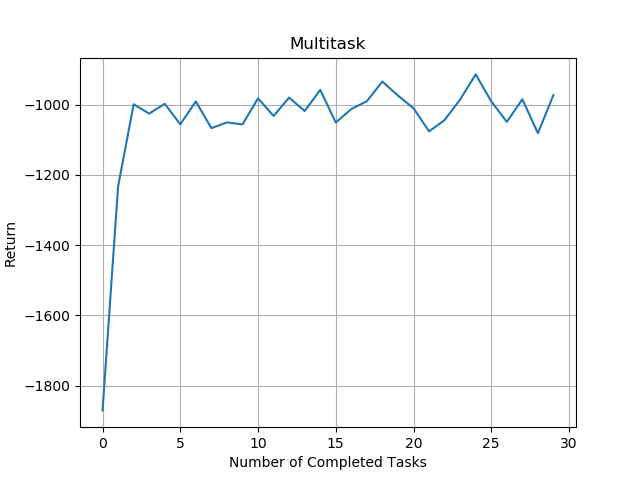
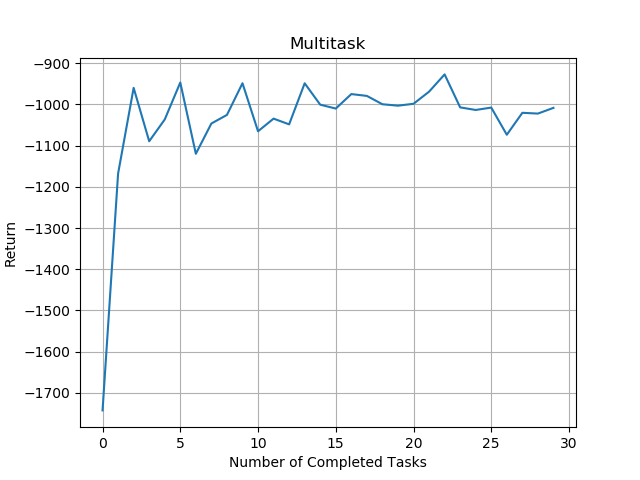
removed taskgenerator

diff --git a/test.py b/test.py
@@ -1,25 +1,27 @@
 import gym
 import gym_foo
 import matplotlib.pyplot as plt
+import numpy as np
 # import ipdb
 
 from approaches.random_policy import RandomPolicyApproach
 from approaches.q_learning import SingleTaskQLearningApproach, MultiTaskQLearningApproach, SingleTaskAugmentedQLearningApproach, MultiTaskAugmentedQLearningApproach
 
-def test_single_approach(task_generator, approach, total_num_tasks=30):
+def test_single_approach(approach, rng, total_num_tasks=30):
     results = []
-    task = task_generator('foo-v0')
-    approach = approach(task.get_actions(), task.get_rewards)
+    task = gym.make('foo-v0')
+    task.reset(rng)
+    approach = approach(task.action_space, task.reward_function, rng)
 
     for task_num in range(total_num_tasks):
-        result = run_approach_on_task(approach, task)
+        result = run_approach_on_task(approach, task, rng)
         results.append(result)
 
     return results
 
-def run_approach_on_task(approach, task, max_num_steps=100):
+def run_approach_on_task(approach, task, rng, max_num_steps=100):
     # Task is a Gym env
-    state = task.reset()
+    state = task.reset(rng)
     # Initialize the approach
     approach.reset()
     # Result is a list of all rewards seen
@@ -33,29 +35,10 @@ def run_approach_on_task(approach, task, max_num_steps=100):
         state = next_state
         if done:
             # break
-            state = task.reset()
+            state = task.reset(rng)
             # reset environment without rerandomizing
             # allows agent to learn for longer
     return result
-
-class TaskGenerator:
-    def __init__(self, env_name):
-        self.env = gym.make(env_name)
-
-    def reset(self):
-        # self.env.randomize_map()
-        self.env.randomize_rewards()
-        state = self.env.reset()
-        return state
-
-    def step(self, action):
-        return self.env.step(action)
-
-    def get_actions(self):
-        return self.env.action_space
-
-    def get_rewards(self):
-        return self.env.reward_function
 
 
 if __name__ == "__main__":
@@ -79,7 +62,9 @@ if __name__ == "__main__":
         num_tasks = 30
         results = [0]*num_tasks
         for i in range(25):
-            current = (test_single_approach(TaskGenerator, approach_fn))
+            rng = np.random.RandomState(i)
+            # rng random num generator
+            current = (test_single_approach(approach_fn, rng))
             for j in range(num_tasks):
                 results[j] += sum(current[j])/25.0
 
@@ -95,25 +80,6 @@ if __name__ == "__main__":
                title=str(approach))
         ax.grid()
 
-        # fig.savefig(file)
-        plt.show()
-
-# plot returns
-    # include random actions as baseline
-        # shouldn't have a trend - noisy
-        # single task should be better than this
-    # plot episode vs total return for the episode
-        # want to see that later episodes have higher returns
-        # test that multitask is better than single when not randomizing
-        # if multitask isnt improving, might be due to length/num of episodes 
-        # or distribution of rewards (make range smaller)
-    # save results using pickle
-        # script that loads results and makes plots
-
-# hacking reward function
-    # ask reward fn rewards at empty space vs pellet, include in augmented state ([row, col, reward at pellet, reward at empty space])
-        # dont randomize map
-    
-# try new approach with right hard coded policy
-# unit tests
+        fig.savefig(file)
+        # plt.show()
 

diff --git a/approaches/q_learning.py b/approaches/q_learning.py
@@ -1,26 +1,29 @@
 from .approach import Approach
 from collections import defaultdict
 import numpy as np
-from random import randint
 
 class SingleTaskQLearningApproach(Approach):
 
-    def __init__(self, action_space, reward_function, eps=0.1, discount_factor=0.9, alpha=0.5):
+    def __init__(self, action_space, reward_function, rng, eps=0.1, discount_factor=0.9, alpha=0.5):
         self.action_space = action_space
         self.eps = eps # probability of random action
         self.discount_factor = discount_factor # gamma
         self.alpha = alpha # learning rate
         self.reward_function = reward_function
 
+        self.rng = rng
+
     def reset(self):
-        self.Q = defaultdict(lambda: np.zeros(len(self.action_space)))\
+        self.Q = defaultdict(lambda: np.zeros(len(self.action_space)))
 
     def get_action(self, state):
         # Epsilon-greedy: take a random action with probability eps
-        if np.random.random() < self.eps:
+        # if np.random.random() < self.eps:
+        if self.rng.random() < self.eps:
             # return self.action_space.sample()
-            index = randint(0,3) # hacky! fix action space
-            return self.action_space[index]
+            # index = randint(0,3) # hacky! fix action space
+            # return self.action_space[index]
+            return self.action_space[self.rng.randint(0,4)]
         # Find action with max return in given state
         return self.action_space[np.argmax(self.Q[state])] 
 
@@ -39,16 +42,17 @@ class MultiTaskQLearningApproach(SingleTaskQLearningApproach):
         self.Q = defaultdict(lambda: np.zeros(len(self.action_space)))
 
     def reset(self):
-        # print(self.Q)
         pass
 
 class SingleTaskAugmentedQLearningApproach(SingleTaskQLearningApproach):
     def get_action(self, state):
         # Epsilon-greedy: take a random action with probability eps
-        if np.random.random() < self.eps:
+        # if np.random.random() < self.eps:
+        if self.rng.random() < self.eps:
             # return self.action_space.sample()
-            index = randint(0,3) # hacky! fix action space
-            return self.action_space[index]
+            # index = randint(0,3) # hacky! fix action space
+            # return self.action_space[index]
+            return self.action_space[self.rng.randint(0,4)]
         # Find action with max return in given state
         return self.action_space[np.argmax(self.Q[self.augment_state(state)])] 
 
@@ -64,7 +68,8 @@ class SingleTaskAugmentedQLearningApproach(SingleTaskQLearningApproach):
         self.Q[augmented_state][action_index] += self.alpha * td_delta
 
     def augment_state(self, state):
-        new_state = [int(state[1]), int(state[4])] + sorted(self.reward_function().items())
+        # ipdb.set_trace()
+        new_state = [int(state[1]), int(state[4])] + sorted(self.reward_function.items())
         return str(new_state)
 
 
@@ -74,5 +79,4 @@ class MultiTaskAugmentedQLearningApproach(SingleTaskAugmentedQLearningApproach):
         self.Q = defaultdict(lambda: np.zeros(len(self.action_space)))
 
     def reset(self):
-        # print(self.Q)
         pass

diff --git a/gym-foo/gym_foo/envs/foo_env.py b/gym-foo/gym_foo/envs/foo_env.py
@@ -1,8 +1,8 @@
 import gym
 from gym import error, spaces, utils
-from gym.utils import seeding
 import numpy as np
 from random import randint, choice
+# import ipdb
 
 class FooEnv(gym.Env):
     metadata = {'render.modes': ['human']}
@@ -16,13 +16,10 @@ class FooEnv(gym.Env):
         self.action_space = ['right', 'left', 'up', 'down'] #use openai action spaces instead!!!
         # self.randomize_rewards()
 
-    def randomize_rewards(self): 
-        pellet_reward = choice([-50,-1])
-        while True:
-            reward = choice([-50,-1])
-            if reward != pellet_reward:
-                space_reward = reward
-                break
+    def randomize_rewards(self, rng): 
+        all_possible_rewards = [-50, -1]
+        rng.shuffle(all_possible_rewards)
+        pellet_reward, space_reward = all_possible_rewards[0], all_possible_rewards[1]
 
         self.pellet_reward = pellet_reward
         self.space_reward = space_reward
@@ -77,11 +74,11 @@ class FooEnv(gym.Env):
 
         return str(self.state), reward, self.done, self.map
 
-    def reset(self):
+    def reset(self, rng):
+        self.randomize_rewards(rng)
         self.state = [0,0] 
         self.reward = 0
         self.done = False
-        # self.randomize_rewards()
         return str(self.state)
 
     def render(self, mode='human', close=False):

diff --git a/approaches/random_policy.py b/approaches/random_policy.py
@@ -1,10 +1,11 @@
 from .approach import Approach
-from random import randint
+import numpy as np
 
 class RandomPolicyApproach(Approach):
 
-    def __init__(self, action_space, reward_function):
+    def __init__(self, action_space, reward_function, rng):
         self.action_space = action_space
+        self.rng = rng
 
     def reset(self):
         pass
@@ -14,5 +15,6 @@ class RandomPolicyApproach(Approach):
 
     def get_action(self, state):
         # return self.action_space.sample()
-        index = randint(0,3) # hacky! fix action space
-        return self.action_space[index]
+        # index = randint(0,3) # hacky! fix action space
+        return self.action_space[self.rng.randint(0,4)]
+        # return self.action_space[index]

diff --git a/gym-foo/setup.py b/gym-foo/setup.py
@@ -1,0 +1,6 @@
+from setuptools import setup
+
+setup(name='gym_foo',
+      version='0.0.1',
+      install_requires=['gym']  # And any other dependencies foo needs
+)
